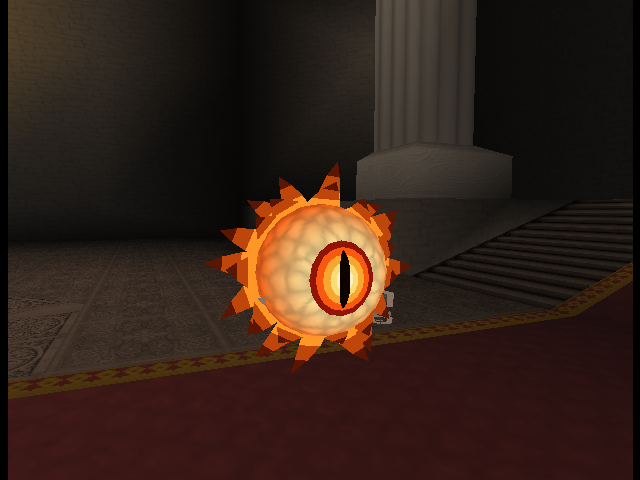
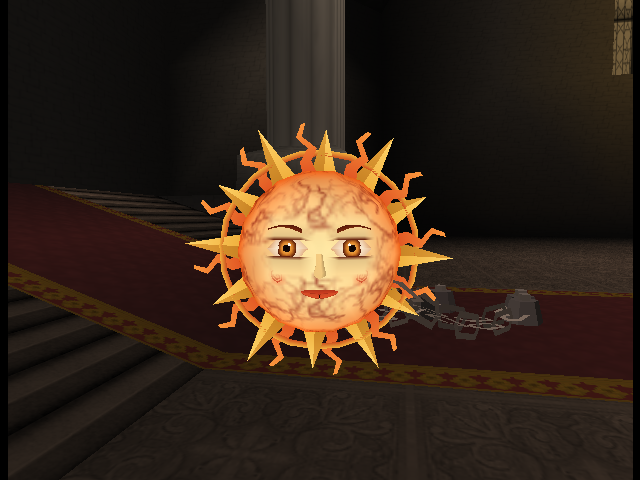
Releases only when the user asks (a push no longer ships one); README: the Shackled Sun's new face (test aid HLE_PORTRAIT_FLIPX)

diff --git a/hle/autoplay.c b/hle/autoplay.c
@@ -1133,7 +1133,11 @@ void hle_autoplay(joypad_inputs_t *in, joypad_buttons_t *pressed)
 #endif
                 float a = boss->rot[1] + HLE_PORTRAIT_TURN, cx = 0, cz = 0;
                 for (int i = 0; i < 16; i++, a += 0.39f) {
+#ifdef HLE_PORTRAIT_FLIPX   // a boss whose front is (+sin, +cos) of its yaw (the Shackled Sun)
+                    cx = boss->pos[0] + sinf(a) * HLE_PORTRAIT_D; cz = boss->pos[2] + cosf(a) * HLE_PORTRAIT_D;
+#else
                     cx = boss->pos[0] - sinf(a) * HLE_PORTRAIT_D; cz = boss->pos[2] + cosf(a) * HLE_PORTRAIT_D;
+#endif
                     float hx = (cx + boss->pos[0]) * 0.5f, hz = (cz + boss->pos[2]) * 0.5f;
                     if (scene_bounds_check_room(cx, character.pos[1], cz) && scene_bounds_check_room(hx, character.pos[1], hz)) break;
                 }

diff --git a/.claude/skills/test-rom/flags.md b/.claude/skills/test-rom/flags.md
@@ -17,7 +17,7 @@ All scripts live in `hle/autoplay.c` and need `-DHLE_AUTOPLAY` (HLE: `HLE_EXTRA_
 - No timescale, fast-forward or RNG seed aid exists (boss order seeds from the clock). Speed up by skipping to the state above, not by running faster.
 
 ## Capture
-- **Cameras:** `HLE_DUMMY_SIDECAM` (`HLE_SIDECAM_K`), `HLE_DUMMY_CAM` (`HLE_DUMMY_CAM_YAW` turns it round the boss, 1.57 = side; `HLE_DUMMY_CAM_DIST`, 120), `CAM_NEAR`, `CAM_HIGH`, `CAM_PORTRAIT` (`HLE_PORTRAIT_D/H/LOOK/TURN`). `HLE_SKIN_GATE` poses skins at the fog gate.
+- **Cameras:** `HLE_DUMMY_SIDECAM` (`HLE_SIDECAM_K`), `HLE_DUMMY_CAM` (`HLE_DUMMY_CAM_YAW` turns it round the boss, 1.57 = side; `HLE_DUMMY_CAM_DIST`, 120), `CAM_NEAR`, `CAM_HIGH`, `CAM_PORTRAIT` (`HLE_PORTRAIT_D/H/LOOK/TURN`, `HLE_PORTRAIT_FLIPX` for the Shackled Sun, whose front is the other way; with `HLE_SUN_FORCE=9` it only hovers, its face at rest). `HLE_SKIN_GATE` poses skins at the fog gate.
 - **Clean README shots:** `HLE_SHOT_CLEAN` / `HLE_NO_HUD`.
 - **Frame-exact video:** shot every frame, `run.sh rom "$(seq -s, 900 1 1100)"` (comma list, not a range), then
   `ffmpeg -framerate 30 -pattern_type glob -i '*.png' -vf scale=640:-2,format=yuv420p -c:v libx264 -crf 18 out.mp4`. Lower `-framerate` or `setpts=4*PTS` for slow motion.

diff --git a/README.md b/README.md
@@ -73,7 +73,7 @@ Guardian Unbound (the Guardian's second form), plus three **Bonus** fights on th
 | The Guardian, risen in gold, his sword floating over him: a barrage from the air. | A crimson knight with your own moves: combos, Halfmoon, Moon Blade, rolls and counters, a leaping plunge. |
 | **The Shackled Sun (Bonus)** | **Shadowborne (Bonus)** |
 | <img src="docs/media/boss_shackled_sun.png" width="400"> | <img src="docs/media/boss_shadowborn.png" width="400"> |
-| A chained, burning eye: its chains lash and sweep, sunbrand crosses fly, and once unshackled it eclipses. | A crystal dragon: claws, tail and bite, fire swept over the floor, strafes from the air, and the dark beam in its second half. |
+| A chained sun with an uncanny face: its chains lash and sweep, sunbrand crosses fly, and once unshackled it eclipses. | A crystal dragon: claws, tail and bite, fire swept over the floor, strafes from the air, and the dark beam in its second half. |
 
 The ending now plays live in the engine.
 

diff --git a/CLAUDE.md b/CLAUDE.md
@@ -4,8 +4,8 @@ N64 souls-like boss rush built with libdragon + tiny3d. Design numbers (balance,
 
 ## Git and releases
 - Work on `main` of the fork (remote `cbyeh`) and push as work lands. Never push, tag or open PRs on upstream (`origin` = Boxingbruin). Use `--repo cbyeh/Pandemonium` with `gh`.
-- Every push with game changes ships a release: see `/release`. Until the user calls 1.0 stable, each build replaces v1.0; after that, ship numbered releases.
-- Squash fix-up commits (and their releases) into the commit they fix.
+- Release only when the user asks (`/release`); pushing doesn't ship one. Until the user calls 1.0 stable, a release replaces v1.0; after that, ship numbered releases.
+- Squash fix-up commits into the commit they fix.
 - Other Claude sessions may share this checkout: do work in a `git worktree`.
 
 ## Hard rules
